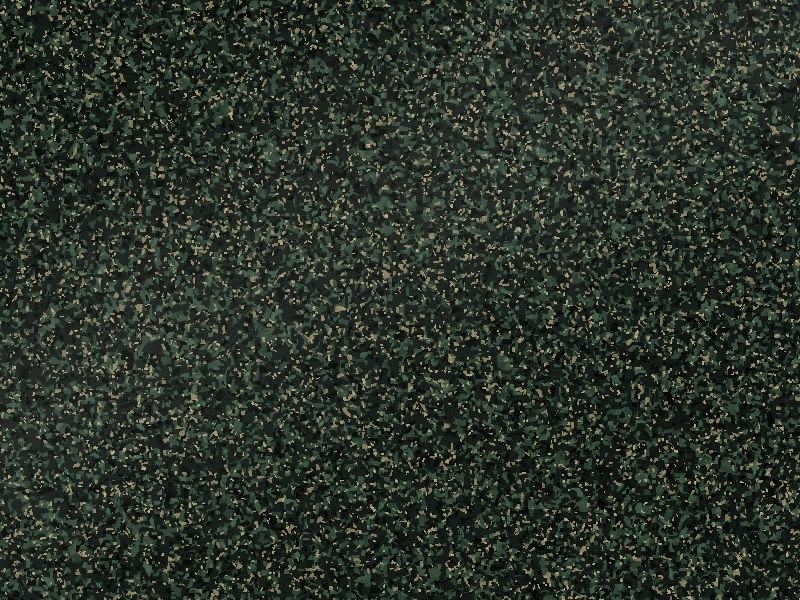
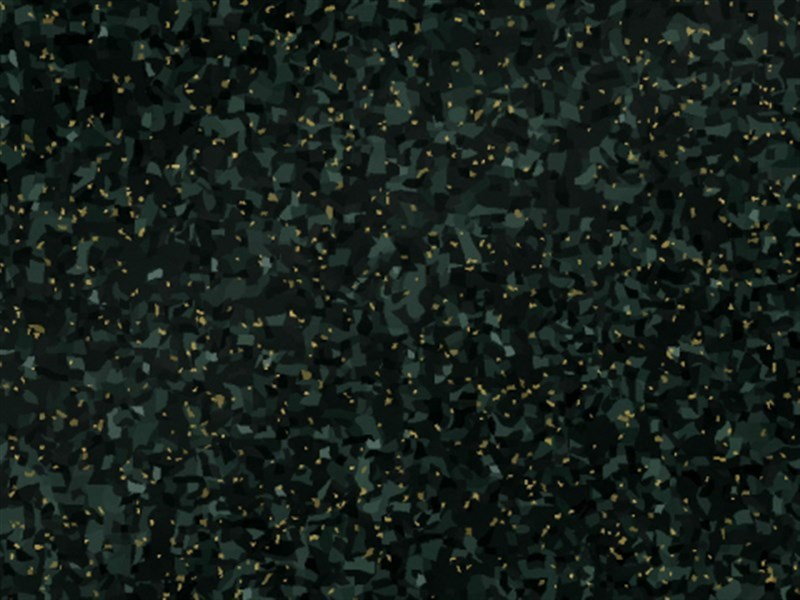
Verde Ubatuba mais fiel

diff --git a/sistema/index.html b/sistema/index.html
@@ -19,7 +19,7 @@
     });
   </script>
   <!-- versão desta publicação (o publicar.ps1 troca 'dev' pelo número da versão) -->
-  <script>window.VERSAO_SISTEMA = '20261116161547';</script>
+  <script>window.VERSAO_SISTEMA = '20261116163056';</script>
   <!-- tema claro/escuro: aplica antes de desenhar a página (sem piscar). Sem escolha salva, segue o computador -->
   <script>
     (() => {
@@ -30,7 +30,7 @@
     })();
   </script>
   <link rel="icon" href="logo-s.png">
-  <link rel="stylesheet" href="styles.css?v=20261116161547">
+  <link rel="stylesheet" href="styles.css?v=20261116163056">
 </head>
 <body>
   <header class="topbar">
@@ -438,11 +438,11 @@
 
   <script src="vendor/supabase.js"></script>
   <!-- ?v= força o navegador a baixar a versão nova depois de cada publicação -->
-  <script src="avisos.js?v=20261116161547"></script>
-  <script src="acesso.js?v=20261116161547"></script>
-  <script src="catalogo.js?v=20261116161547"></script>
-  <script src="app.js?v=20261116161547"></script>
-  <script src="producao.js?v=20261116161547"></script>
-  <script src="v3d.js?v=20261116161547"></script>
+  <script src="avisos.js?v=20261116163056"></script>
+  <script src="acesso.js?v=20261116163056"></script>
+  <script src="catalogo.js?v=20261116163056"></script>
+  <script src="app.js?v=20261116163056"></script>
+  <script src="producao.js?v=20261116163056"></script>
+  <script src="v3d.js?v=20261116163056"></script>
 </body>
 </html>
